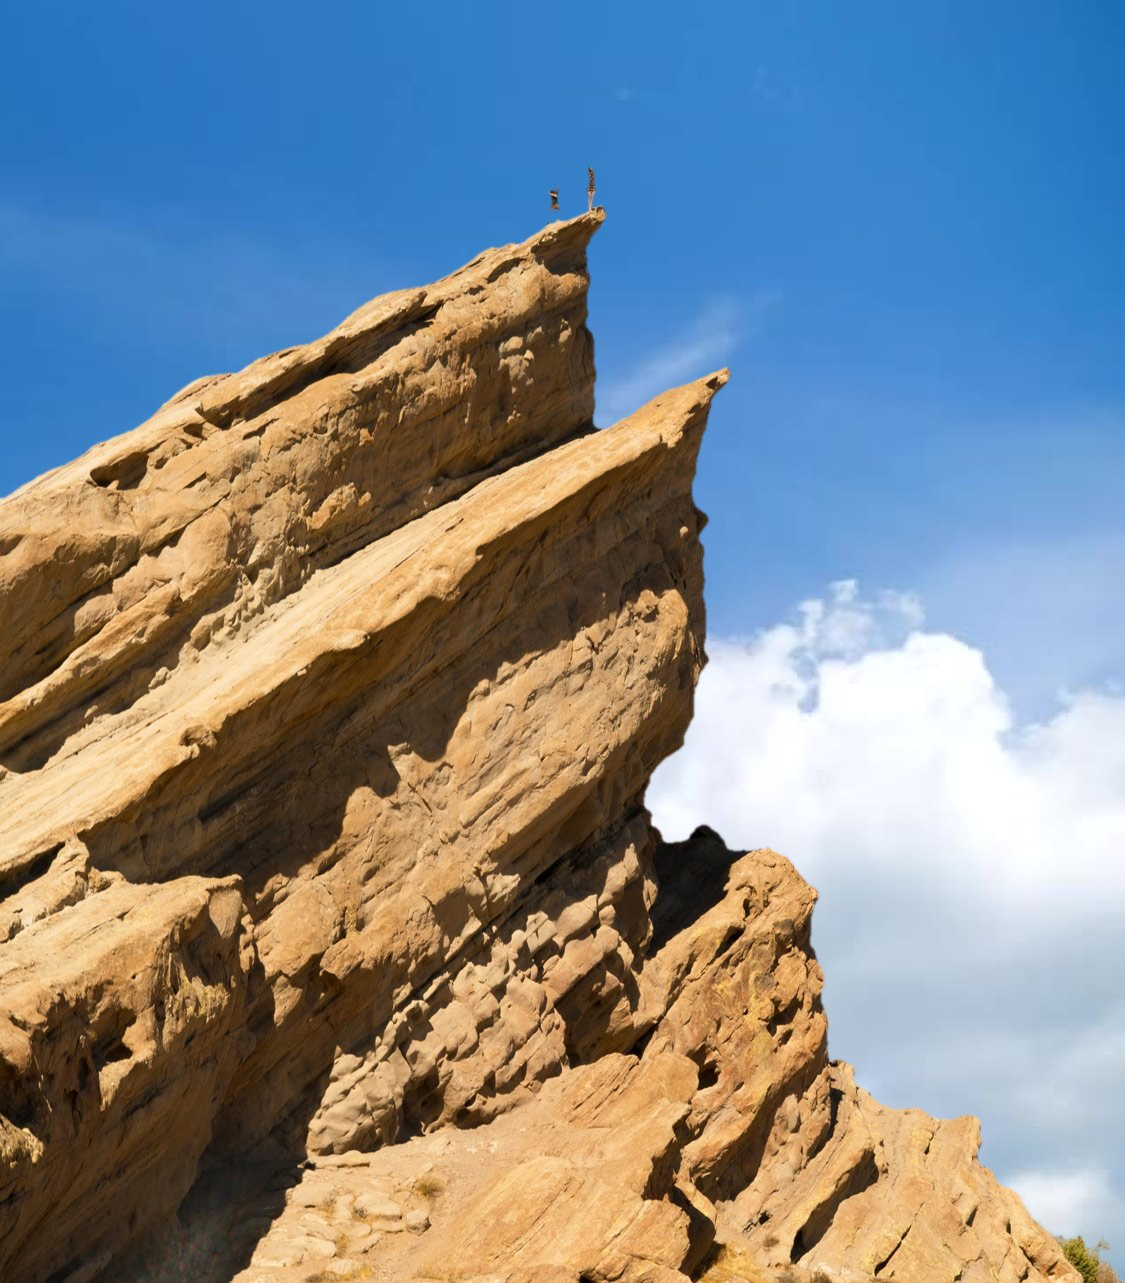
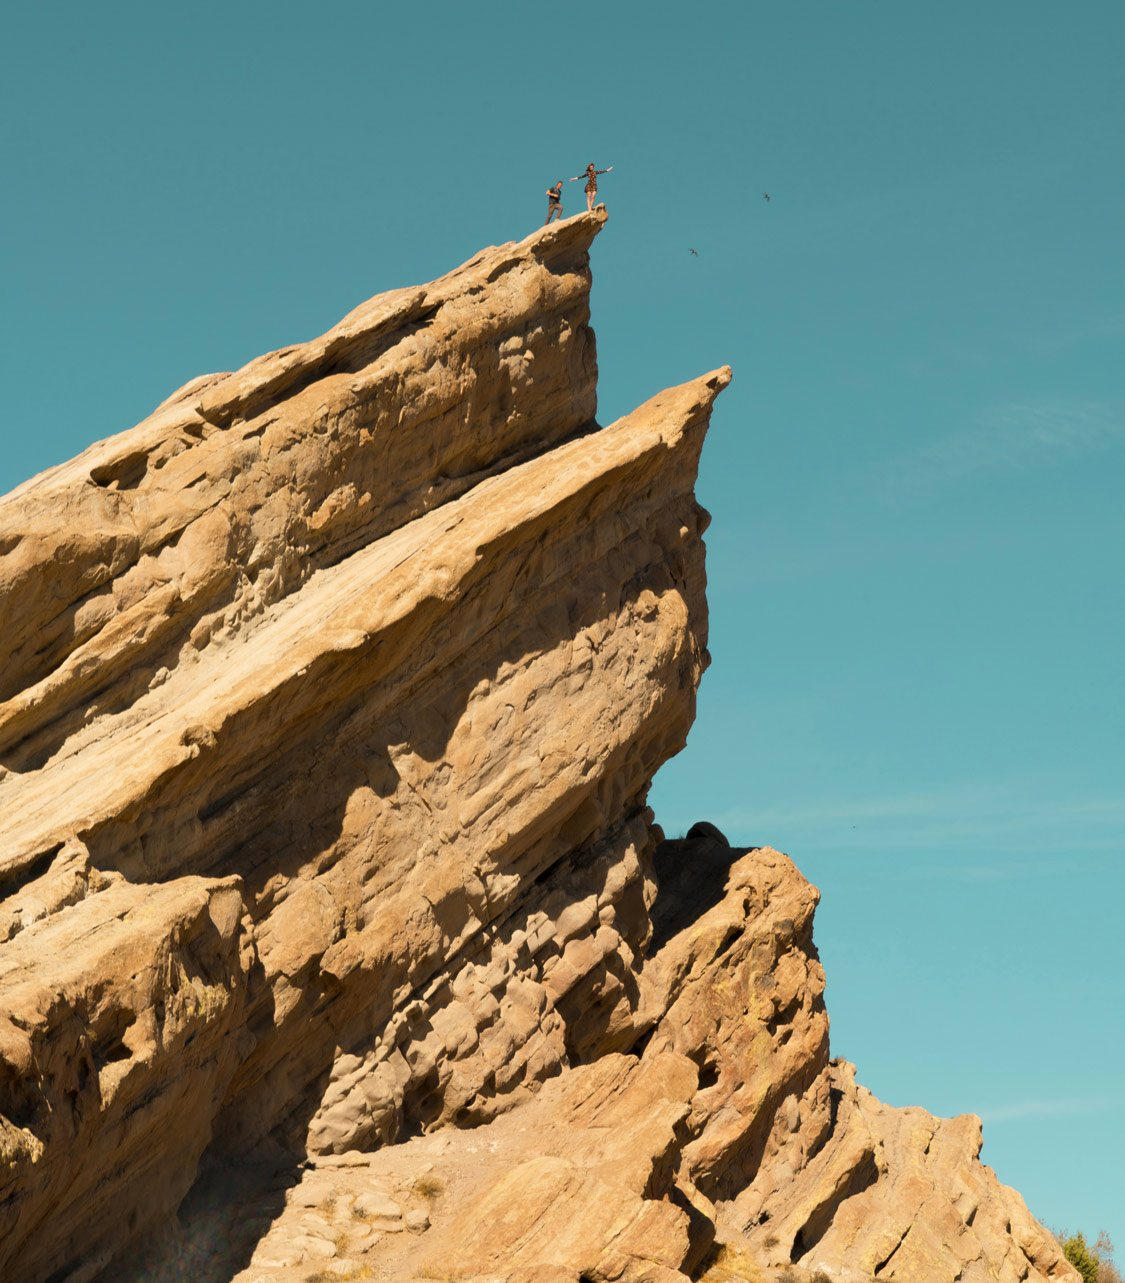
Undo the Vasquez sky swap. Phones: back to the drifting three-column playground (12 photos), tap any to open the viewer, View all opens every photo
Claude-Session: https://claude.ai/code/session_01EAqpN8ayeNdaSbkqQzbbPy

diff --git a/portfolio/assets/css/custom.css b/portfolio/assets/css/custom.css
@@ -611,7 +611,7 @@ a, button, [role="button"] { -webkit-tap-highlight-color: transparent; }
 
 /* Homepage "Take a pause": the rock photo is framed on the peak, the two people and the sky */
 /* more sky: the photo sits narrower on the left and fades into a sky gradient sampled from its own right edge */
-.section[data-svg="breath"] { background: #3a87d2 url(../about-sky-poster.jpg) 100% 50% / cover no-repeat; } /* the same sky as the About page */
+.section[data-svg="breath"] { background: linear-gradient(180deg, #488790 0%, #54939d 22%, #5fa2aa 42%, #6cb0b6 62%, #7dbfc4 82%, #8ac6c9 100%); }
 .pause-photo { left: 0; right: auto; width: 74%; object-fit: cover; object-position: 50% 8%;
   -webkit-mask-image: linear-gradient(90deg, #000 72%, transparent 100%); mask-image: linear-gradient(90deg, #000 72%, transparent 100%); }
 @media (max-width: 767px) { .pause-photo { width: 80%; object-position: 50% 4%; } }
@@ -754,15 +754,17 @@ body:has(.hero.cc-glow) .page-main { background: #fbfaf7; }
 /* tight tracking was eating the word gaps ("witha") on iOS: give spaces a little air */
 .h1, .h2, .h3, h1, h2, h3 { word-spacing: .06em; }
 
-/* pg-strip: on phones the playground is a two-row strip that scrolls sideways; tap a photo to open it */
+/* pg-phone: the drifting three-column grid shows twelve photos; tap one to open the viewer, which holds them all */
 @media (max-width: 767px) {
-  .pg .pg_grid { grid-template-columns: none; grid-template-rows: repeat(2, auto); grid-auto-flow: column; grid-auto-columns: max-content;
-    gap: 1.25rem 1rem; align-items: center; justify-items: center; overflow-x: auto; overflow-y: hidden; overscroll-behavior-x: contain;
-    -webkit-overflow-scrolling: touch; scrollbar-width: none; padding: 1.5rem var(--_layout---columns--gutter, 1rem) 2rem; scroll-padding-inline: var(--_layout---columns--gutter, 1rem); }
-  .pg .pg_grid::-webkit-scrollbar { display: none; }
-  .pg .pg_slot, .pg .pg_slot:nth-child(n) { display: flex; width: auto; }
-  .pg .pg_card { width: auto; height: 46vw; pointer-events: auto; cursor: zoom-in; -webkit-tap-highlight-color: transparent; }
+  .pg .pg_slot:nth-child(n+10) { display: flex; }
+  .pg .pg_slot:nth-child(n+13) { display: none; }
+  .pg .pg_card { pointer-events: auto; cursor: zoom-in; -webkit-tap-highlight-color: transparent; }
   .pg .pg_card:active { filter: brightness(.94); }
+}
+.pg-all { display: none; }
+@media (max-width: 767px) {
+  .pg-all { display: flex; align-items: center; gap: .4em; margin: 1.75rem auto 0; padding: .5rem 0; border: 0; background: none; color: inherit; font: inherit;
+    font-size: .8125rem; letter-spacing: .08em; text-transform: uppercase; border-bottom: 1px solid currentColor; cursor: pointer; }
 }
 .pg-lb { position: fixed; inset: 0; z-index: 1000; background: rgba(251, 250, 247, .94); -webkit-backdrop-filter: blur(14px); backdrop-filter: blur(14px);
   opacity: 0; visibility: hidden; transition: opacity .3s ease, visibility 0s linear .3s; }

diff --git a/portfolio/assets/js/site.js b/portfolio/assets/js/site.js
@@ -677,11 +677,12 @@
     function layout() {
       if (!homes.length) return;
       var N = cards.length;
-      if (simple) { // phones: a sideways strip; each photo keeps only its little resting tilt
-        pg.classList.add('is-settled');
+      if (simple) { // each photo drifts at its own gentle rate around the middle of the screen
+        var vh0 = window.innerHeight; pg.classList.add('is-settled');
         cards.forEach(function (c, n) {
-          var tilt = rnd(n, 3.731) < .2 ? (rnd(n, 9.17) < .5 ? -1 : 1) * (1 + rnd(n, 5.33) * 1.5) : 0;
-          c.style.transform = tilt ? 'rotate(' + tilt.toFixed(2) + 'deg)' : '';
+          var sr = slots[n].getBoundingClientRect(), mid = sr.top + sr.height / 2 - vh0 / 2;
+          var rate = .03 + rnd(n, 2.171) * .06, tilt = rnd(n, 3.731) < .2 ? (rnd(n, 9.17) < .5 ? -1 : 1) * (1.5 + rnd(n, 5.33) * 2.5) : 0;
+          c.style.transform = 'translate3d(0,' + (-mid * rate).toFixed(1) + 'px,0) rotate(' + tilt.toFixed(2) + 'deg)';
           if (c._blur) { c._blur = 0; c.style.filter = ''; }
         });
         return;
@@ -743,7 +744,7 @@
     // when the visitor rests mid-way through the pin, the photos float on into the grid by themselves
     function kick() { if (!ticking) { ticking = true; requestAnimationFrame(tick); } }
     window.addEventListener('scroll', function () {
-      if (simple) return;
+      if (simple) { if (!ticking) { ticking = true; requestAnimationFrame(function () { ticking = false; layout(); }); } return; }
       var p = progress();
       if (p <= .001) latched = false;
       target = latched ? 1 : p;
@@ -797,6 +798,10 @@
     imgs.forEach(function (im, i) {
       im.closest('.pg_card').addEventListener('click', function () { if (window.innerWidth < 768) open(i); });
     });
+    // phones show a dozen in the grid; this opens the viewer on the first photo so every one is a swipe away
+    var all = document.createElement('button'); all.type = 'button'; all.className = 'pg-all'; all.textContent = 'View all ' + imgs.length;
+    all.addEventListener('click', function () { open(0); });
+    (pg.querySelector('.pg_track') || pg).insertAdjacentElement('afterend', all);
   });
 
   /* Footer clouds: fade in once loaded */
